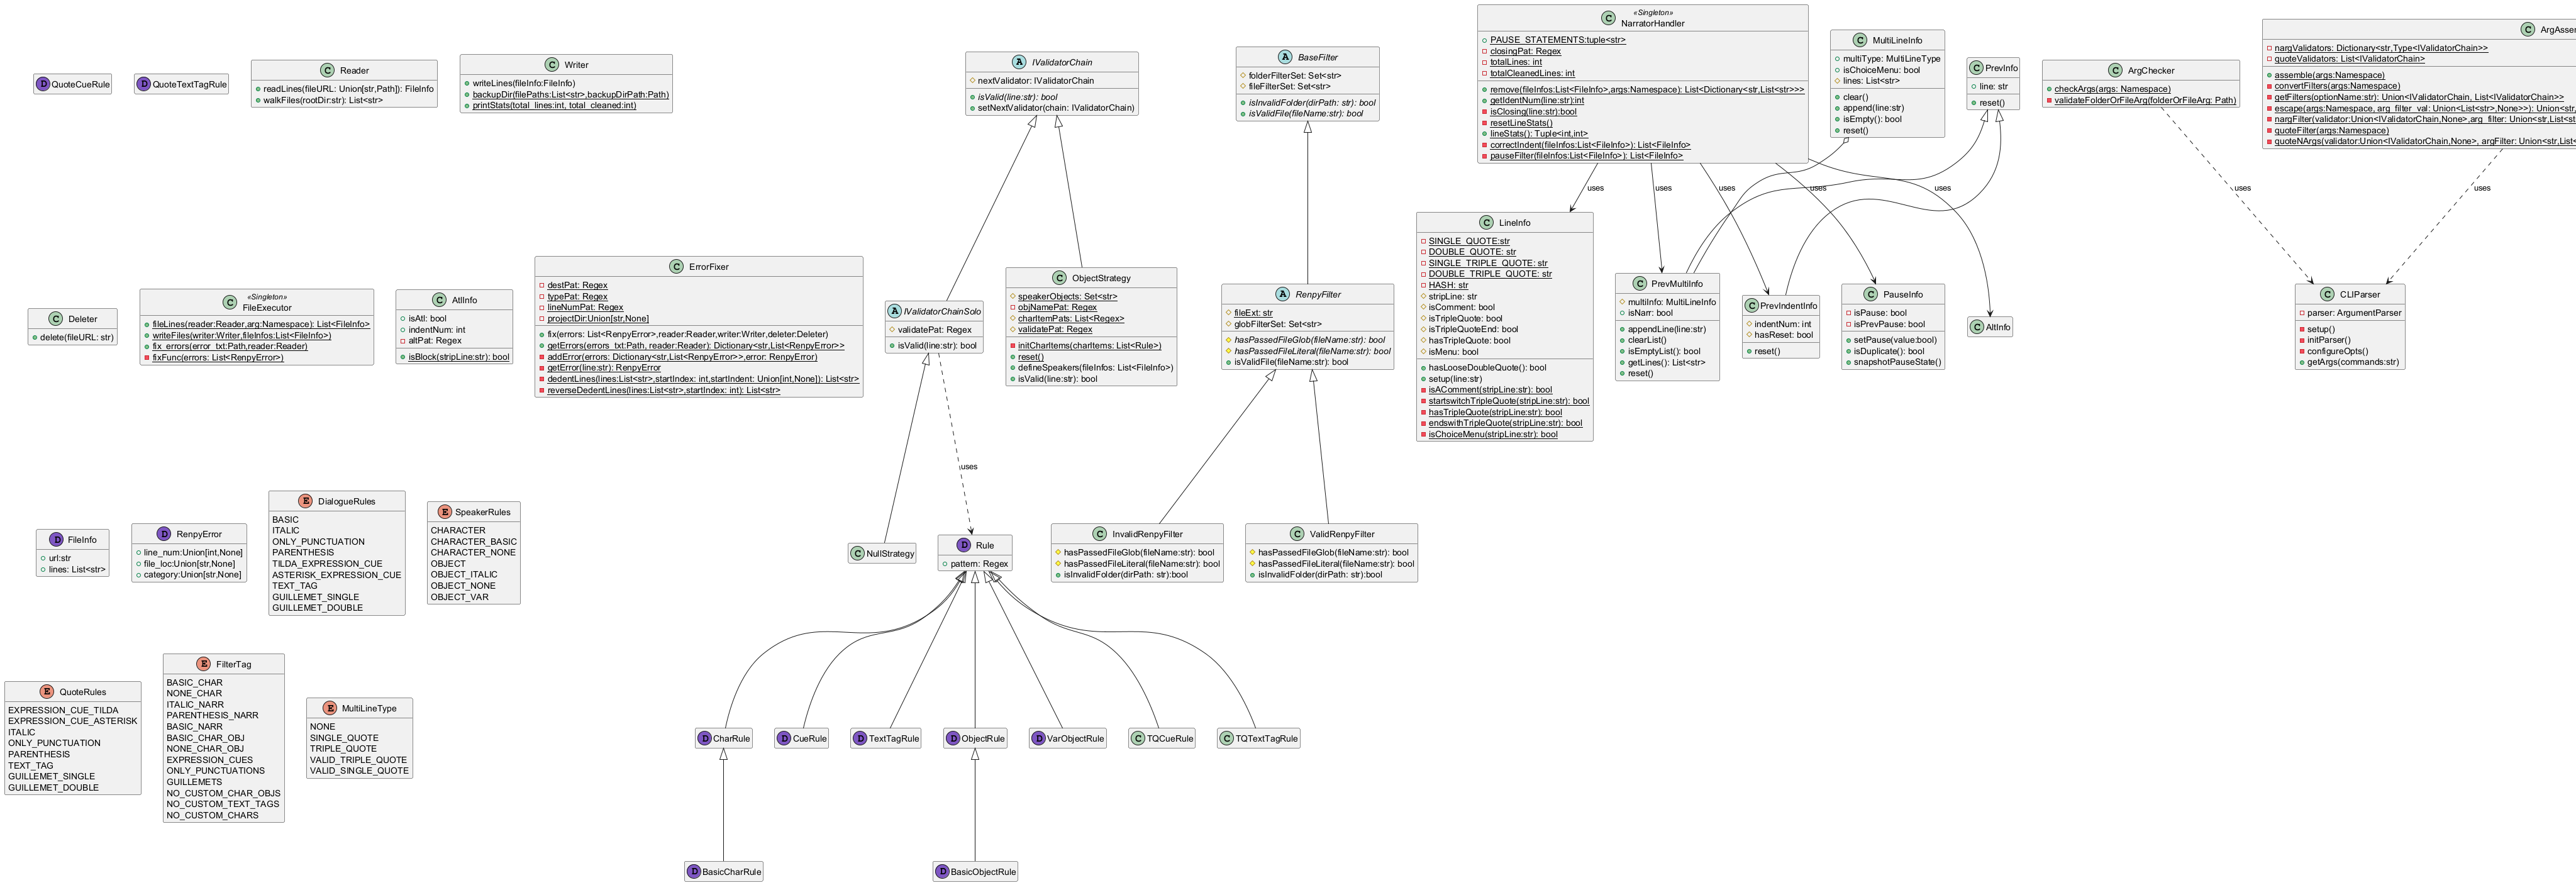
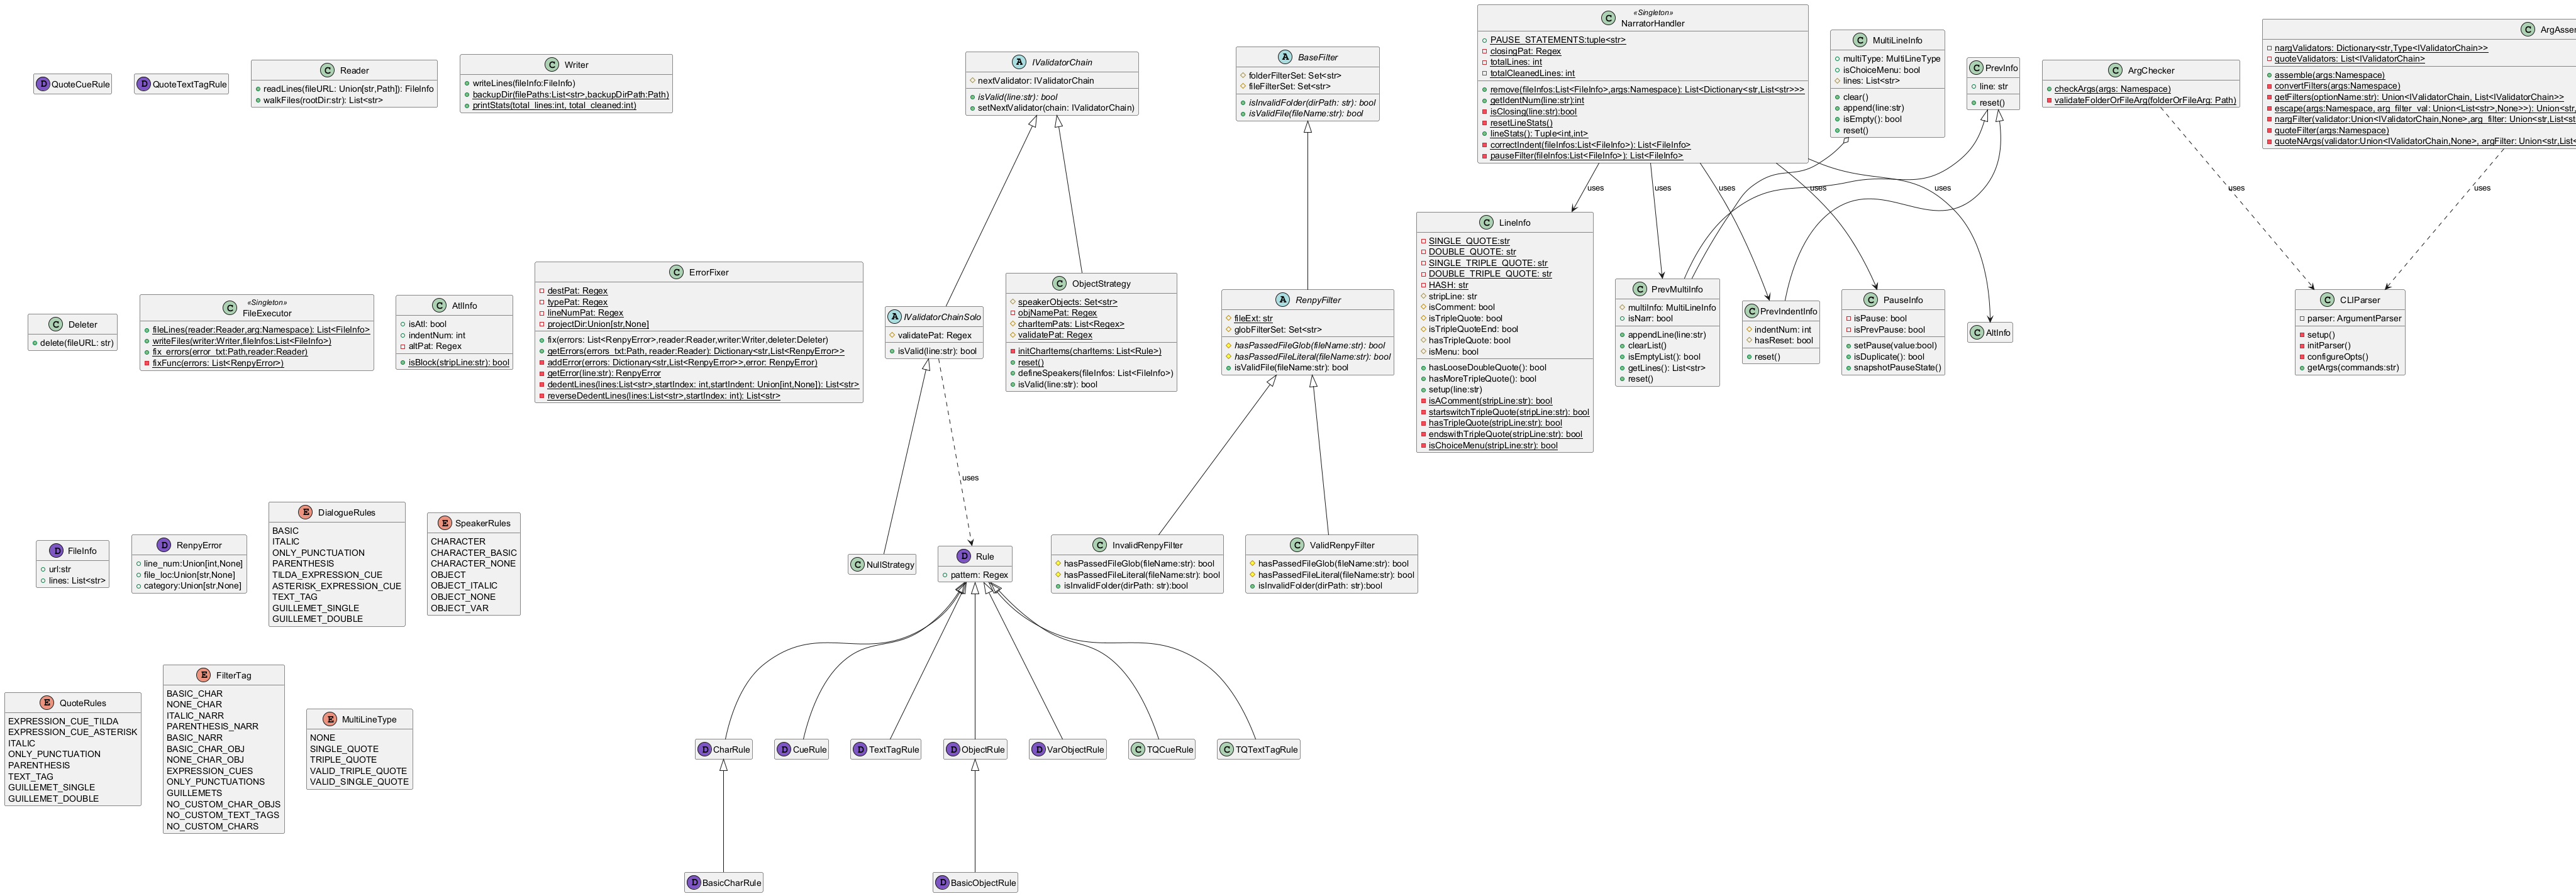
Improve multiline dialogue for NVL Mode. - update class diagram - new option: '--nvl' - update tests

diff --git a/src/lib/info/line_info.py b/src/lib/info/line_info.py
@@ -18,6 +18,7 @@ class LineInfo:
             self._is_triple_quote_end = LineInfo.__endswith_triple_quote(self._strip_line)
             self._has_triple_quote = LineInfo.__has_triple_quote(self._strip_line)
             self._is_menu = LineInfo.__is_choice_menu(self._strip_line)
+            self._has_more_triple_quote = LineInfo.__has_more_triple_quote(self._strip_line)
 
     @staticmethod
     def __can_remove_hash(hash_index: int, double_quote_index: int, single_quote_index: int) -> bool:
@@ -27,6 +28,8 @@ class LineInfo:
     @classmethod
     def __strip_inline_comment(cls, strip_line: str) -> str:
         most_hash_index = strip_line.rfind(cls.__HASH)
+        if most_hash_index != -1 and strip_line[most_hash_index:].rfind('}') != -1:
+            return strip_line
         least_hash_index = strip_line.find(cls.__HASH)
         if most_hash_index == -1 and least_hash_index == -1:
             return strip_line
@@ -48,7 +51,14 @@ class LineInfo:
 
     @classmethod
     def __endswith_triple_quote(cls, strip_line: str) -> bool:
-        return strip_line.endswith(cls.__SINGLE_TRIPLE_QUOTE) or strip_line.endswith(cls.__DOUBLE_TRIPLE_QUOTE)
+        effect = "with vpunch"
+        return strip_line.endswith(cls.__SINGLE_TRIPLE_QUOTE) or strip_line.endswith(
+            f"{cls.__SINGLE_TRIPLE_QUOTE} {effect}") or strip_line.endswith(
+            cls.__DOUBLE_TRIPLE_QUOTE) or strip_line.endswith(f"{cls.__DOUBLE_TRIPLE_QUOTE} {effect}")
+
+    @staticmethod
+    def __endswith_vpunch(strip_line: str) -> bool:
+        return strip_line.endswith("with vpunch")
 
     @classmethod
     def __has_triple_quote(cls, strip_line: str) -> bool:
@@ -63,6 +73,14 @@ class LineInfo:
         no_escaped_quotes = self._strip_line.replace(r'\"', "|")
         return no_escaped_quotes.count(LineInfo.__DOUBLE_QUOTE) % 2 != 0
 
+    @staticmethod
+    def __has_more_triple_quote(strip_line) -> bool:
+        """Checks if more triple quotes are present."""
+        escaped_quote_num = strip_line.count('\\"')
+        triple_quote_num = strip_line.count('"')
+        total_triple_quote = triple_quote_num - escaped_quote_num
+        return total_triple_quote > 3
+
     def setup(self, line: str):
         self._strip_line = LineInfo.__strip_inline_comment(line.strip())
         self._is_comment = LineInfo.__is_a_comment(self._strip_line)
@@ -70,6 +88,7 @@ class LineInfo:
         self._is_triple_quote_end = LineInfo.__endswith_triple_quote(self._strip_line)
         self._has_triple_quote = LineInfo.__has_triple_quote(self._strip_line)
         self._is_menu = LineInfo.__is_choice_menu(self._strip_line)
+        self._has_more_triple_quote = LineInfo.__has_more_triple_quote(self._strip_line)
 
     @property
     def strip_line(self):
@@ -95,3 +114,7 @@ class LineInfo:
     def is_menu(self):
         """Checks if line is a choice menu."""
         return self._is_menu
+
+    @property
+    def more_triple_quotes(self):
+        return self._has_more_triple_quote

diff --git a/src/lib/narrator_handler.py b/src/lib/narrator_handler.py
@@ -142,12 +142,12 @@ class NarratorHandler:
 
                 if prev_info.multi_type is MultiLineType.NONE:
                     if (line_info.is_triple_quote_start
-                            or (is_narrator and line_info.has_triple_quote and not line_info.is_triple_quote_end)
-                            or (is_narrator and line_info.is_triple_quote_end)):
+                            or (is_narrator and line_info.has_triple_quote and not line_info.is_triple_quote_end and not line_info.more_triple_quotes)
+                            or (is_narrator and line_info.is_triple_quote_end and not line_info.more_triple_quotes)):
                         prev_info.multi_type = MultiLineType.TRIPLE_QUOTE
-                    elif line_info.has_loose_double_quote() and not cls.__is_closing(line_info.strip_line):
+                    elif line_info.has_loose_double_quote() and not cls.__is_closing(line_info.strip_line) and not line_info.has_triple_quote:
                         prev_info.multi_type = MultiLineType.SINGLE_QUOTE if is_narrator else MultiLineType.VALID_SINGLE_QUOTE
-                    elif not is_narrator and line_info.has_triple_quote:
+                    elif not is_narrator and line_info.has_triple_quote and not line_info.more_triple_quotes:
                         # linda """You are not narrator
                         prev_info.multi_type = MultiLineType.VALID_TRIPLE_QUOTE
 

diff --git a/tests/validator/test_character.py b/tests/validator/test_character.py
@@ -61,6 +61,7 @@ class TestCharacter(unittest.TestCase):
                     'default dynamic2 = DynamicCharacter("Marco")',
                     'default dynamic3 = DynamicCharacter("")',
                     'default dynamic4 = DynamicCharacter(_())',
+                    'default nvl_narr = nvl_narrator',
                 ],
             )
         ]
@@ -169,6 +170,8 @@ class TestCharacter(unittest.TestCase):
             94: 'dynamic2 "It was dusty and tattered, with strange symbols and markings."',
             95: 'dynamic3 "It was dusty and tattered, with strange symbols and markings."',
             96: 'dynamic4 "It was dusty and tattered, with strange symbols and markings."',
+            # NVL narrator
+            97: 'nvl_narr "The mystery deepened."',
         }
 
     def setUp(self) -> None:
@@ -254,3 +257,7 @@ class TestCharacter(unittest.TestCase):
     def test_empty_char(self):
         obj = validate_solo(SpeakerRules.CHARACTER_NONE.value)
         self.start(obj, [83, 84])
+
+    def test_nvl(self):
+        obj = validate_obj(SpeakerRules.NVL_BASIC.value)
+        self.start_object(obj,[97])

diff --git a/tests/arg/test_arg_assembler.py b/tests/arg/test_arg_assembler.py
@@ -40,7 +40,7 @@ class TestArgAssembler(unittest.TestCase):
             FilterTag.ITALIC.value,
             FilterTag.NARRATOR.value,
         ]
-        self.start(args, 10)
+        self.start(args, 11)
 
     def test_nargs(self):
         args = [
@@ -55,6 +55,7 @@ class TestArgAssembler(unittest.TestCase):
             FilterTag.NONE_CHAR.value,
             FilterTag.NONE_CHAR_OBJ.value,
             FilterTag.GUILLEMETS.value,
+            FilterTag.NVL.value,
             FilterTag.NO_CUSTOM_CHARS.value,
             "ten",
             "narrator",
@@ -83,6 +84,7 @@ class TestArgAssembler(unittest.TestCase):
             FilterTag.EXPRESSION_CUES.value,
             FilterTag.ONLY_PUNCTUATIONS.value,
             FilterTag.GUILLEMETS.value,
+            FilterTag.NVL.value,
             FilterTag.NONE_CHAR.value,
             "--regex",
             FilterTag.NO_CUSTOM_CHARS.value,
@@ -107,6 +109,7 @@ class TestArgAssembler(unittest.TestCase):
             FilterTag.ONLY_PUNCTUATIONS.value,
             FilterTag.NONE_CHAR.value,
             FilterTag.GUILLEMETS.value,
+            FilterTag.NVL.value,
             FilterTag.NO_CUSTOM_CHARS.value,
             "ten{3}",
             "seco.+",
@@ -128,6 +131,7 @@ class TestArgAssembler(unittest.TestCase):
             FilterTag.ONLY_PUNCTUATIONS.value,
             FilterTag.NONE_CHAR.value,
             FilterTag.GUILLEMETS.value,
+            FilterTag.NVL.value,
         ]
         self.start(args,5)
 

diff --git a/src/lib/arg/cli_parser.py b/src/lib/arg/cli_parser.py
@@ -20,7 +20,7 @@ class CLIParser:
     """
 
     def __init__(self):
-        self.__version_num = "4.2.0"
+        self.__version_num = "4.3.0"
         self.__setup()
 
     def __setup(self):
@@ -205,7 +205,8 @@ class CLIParser:
             FilterTag.EXPRESSION_CUES.value: "Keep expression cues. Ex: *smiles*, ~raises eyebrows~.",
             FilterTag.ONLY_PUNCTUATIONS.value: "Keeps dialogue containing only punctuation marks. Ex: '......'",
             FilterTag.NONE_CHAR.value: "Keeps empty quoted speakers not saved to a Character object.",
-            FilterTag.GUILLEMETS.value: "Keeps dialogue surrounded by Guillemets (double & single)."
+            FilterTag.GUILLEMETS.value: "Keeps dialogue surrounded by Guillemets (double & single).",
+            FilterTag.NVL.value: "Keeps NVL-Mode narrator."
         }
         self.__add_no_filters(no_filters)
         self.__add_filter_arg(

diff --git a/src/lib/validator/rule/rule_patterns.py b/src/lib/validator/rule/rule_patterns.py
@@ -68,6 +68,9 @@ class SpeakerRules(Enum):
                    Rule(r"(?:Dynamic)?Character\s*\(\s*_\(\s*(?:[\"']\s*[\"']\s*)?\)")]
     # narrator_variable = Character(...)
     OBJECT_VAR = VarObjectRule
+    # NVL Mode narrator: define/default v = nvl_narrator
+    # Ref: https://www.renpy.org/doc/html/nvl_mode.html#getting-started
+    NVL_BASIC = Rule(r" = nvl_narrator\s*$")
 
 
 class QuoteRules(Enum):

diff --git a/src/lib/arg/arg_assembler.py b/src/lib/arg/arg_assembler.py
@@ -98,6 +98,8 @@ class ArgAssembler:
             case FilterTag.GUILLEMETS.value:
                 return [IValidatorChainSolo(DialogueRules.GUILLEMET_SINGLE.value),
                         IValidatorChainSolo(DialogueRules.GUILLEMET_DOUBLE.value)]
+            case FilterTag.NVL.value:
+                return ObjectStrategy(SpeakerRules.NVL_BASIC.value)
             case _:
                 return IValidatorChainSolo(DialogueRules.BASIC.value)
 

diff --git a/src/lib/custom_types.py b/src/lib/custom_types.py
@@ -13,6 +13,7 @@ class FilterTag(Enum):
     EXPRESSION_CUES = "--cues"
     ONLY_PUNCTUATIONS = "--punctuations"
     GUILLEMETS = "--guillemets"
+    NVL = "--nvl"
     NO_CUSTOM_TEXT_TAGS = "--no-custom-tags"
     NO_CUSTOM_CHARS = "--no-custom-chars"
     NO_CUSTOM_CHAR_OBJS = "--no-custom-char-objs"

diff --git a/COMMANDS.md b/COMMANDS.md
@@ -217,6 +217,7 @@ outdated usage of `Character()` and is also supported by nonarrate!
 | --none-char-obj                       | narr = Character("", ‥)<br> narr = Character(None, ‥) <br> narr = Character() <br> narr = Character(Nothing in the `name` parameter, ‥) | Narrators using an empty character object. In short, nothing in the `name` parameter.                 |
 | --no-custom-chars,<br>--ncc           | “Lily's Inner Self” “It would be a good idea to distract them first”                                                                    | Custom Speaker wrapped in quotes                                                                      |
 | --no-custom-char-var-objs,<br>--nccvo | se = Character("Sue", …)                                                                                                                | Custom speaker saved to character object by their _variable_ name. In this example, its `se`.         |
+| --nvl                                 | nvl = nvl_narrator                                                                                                                      | Narrator in NVL-Mode. `nvl_narrator`                                                                  |
 
 ***—basic-char-obj***
 
@@ -291,6 +292,12 @@ Empty character objects, written as any of the following:
 These character objects are often either used as a blank speaker or are assigned
 an actual speaker name later *(often used when renaming a character later in
 the game.)*.
+
+***--nvl***
+
+Keeps NVL narrator.
+
+Keeps the default narrator found in NVL-Mode. See [Ren'Py NVL Mode](https://www.renpy.org/doc/html/nvl_mode.html#getting-started)
 
 ***—no-custom-chars***, ***—ncc*** `<speaker name>...`
 